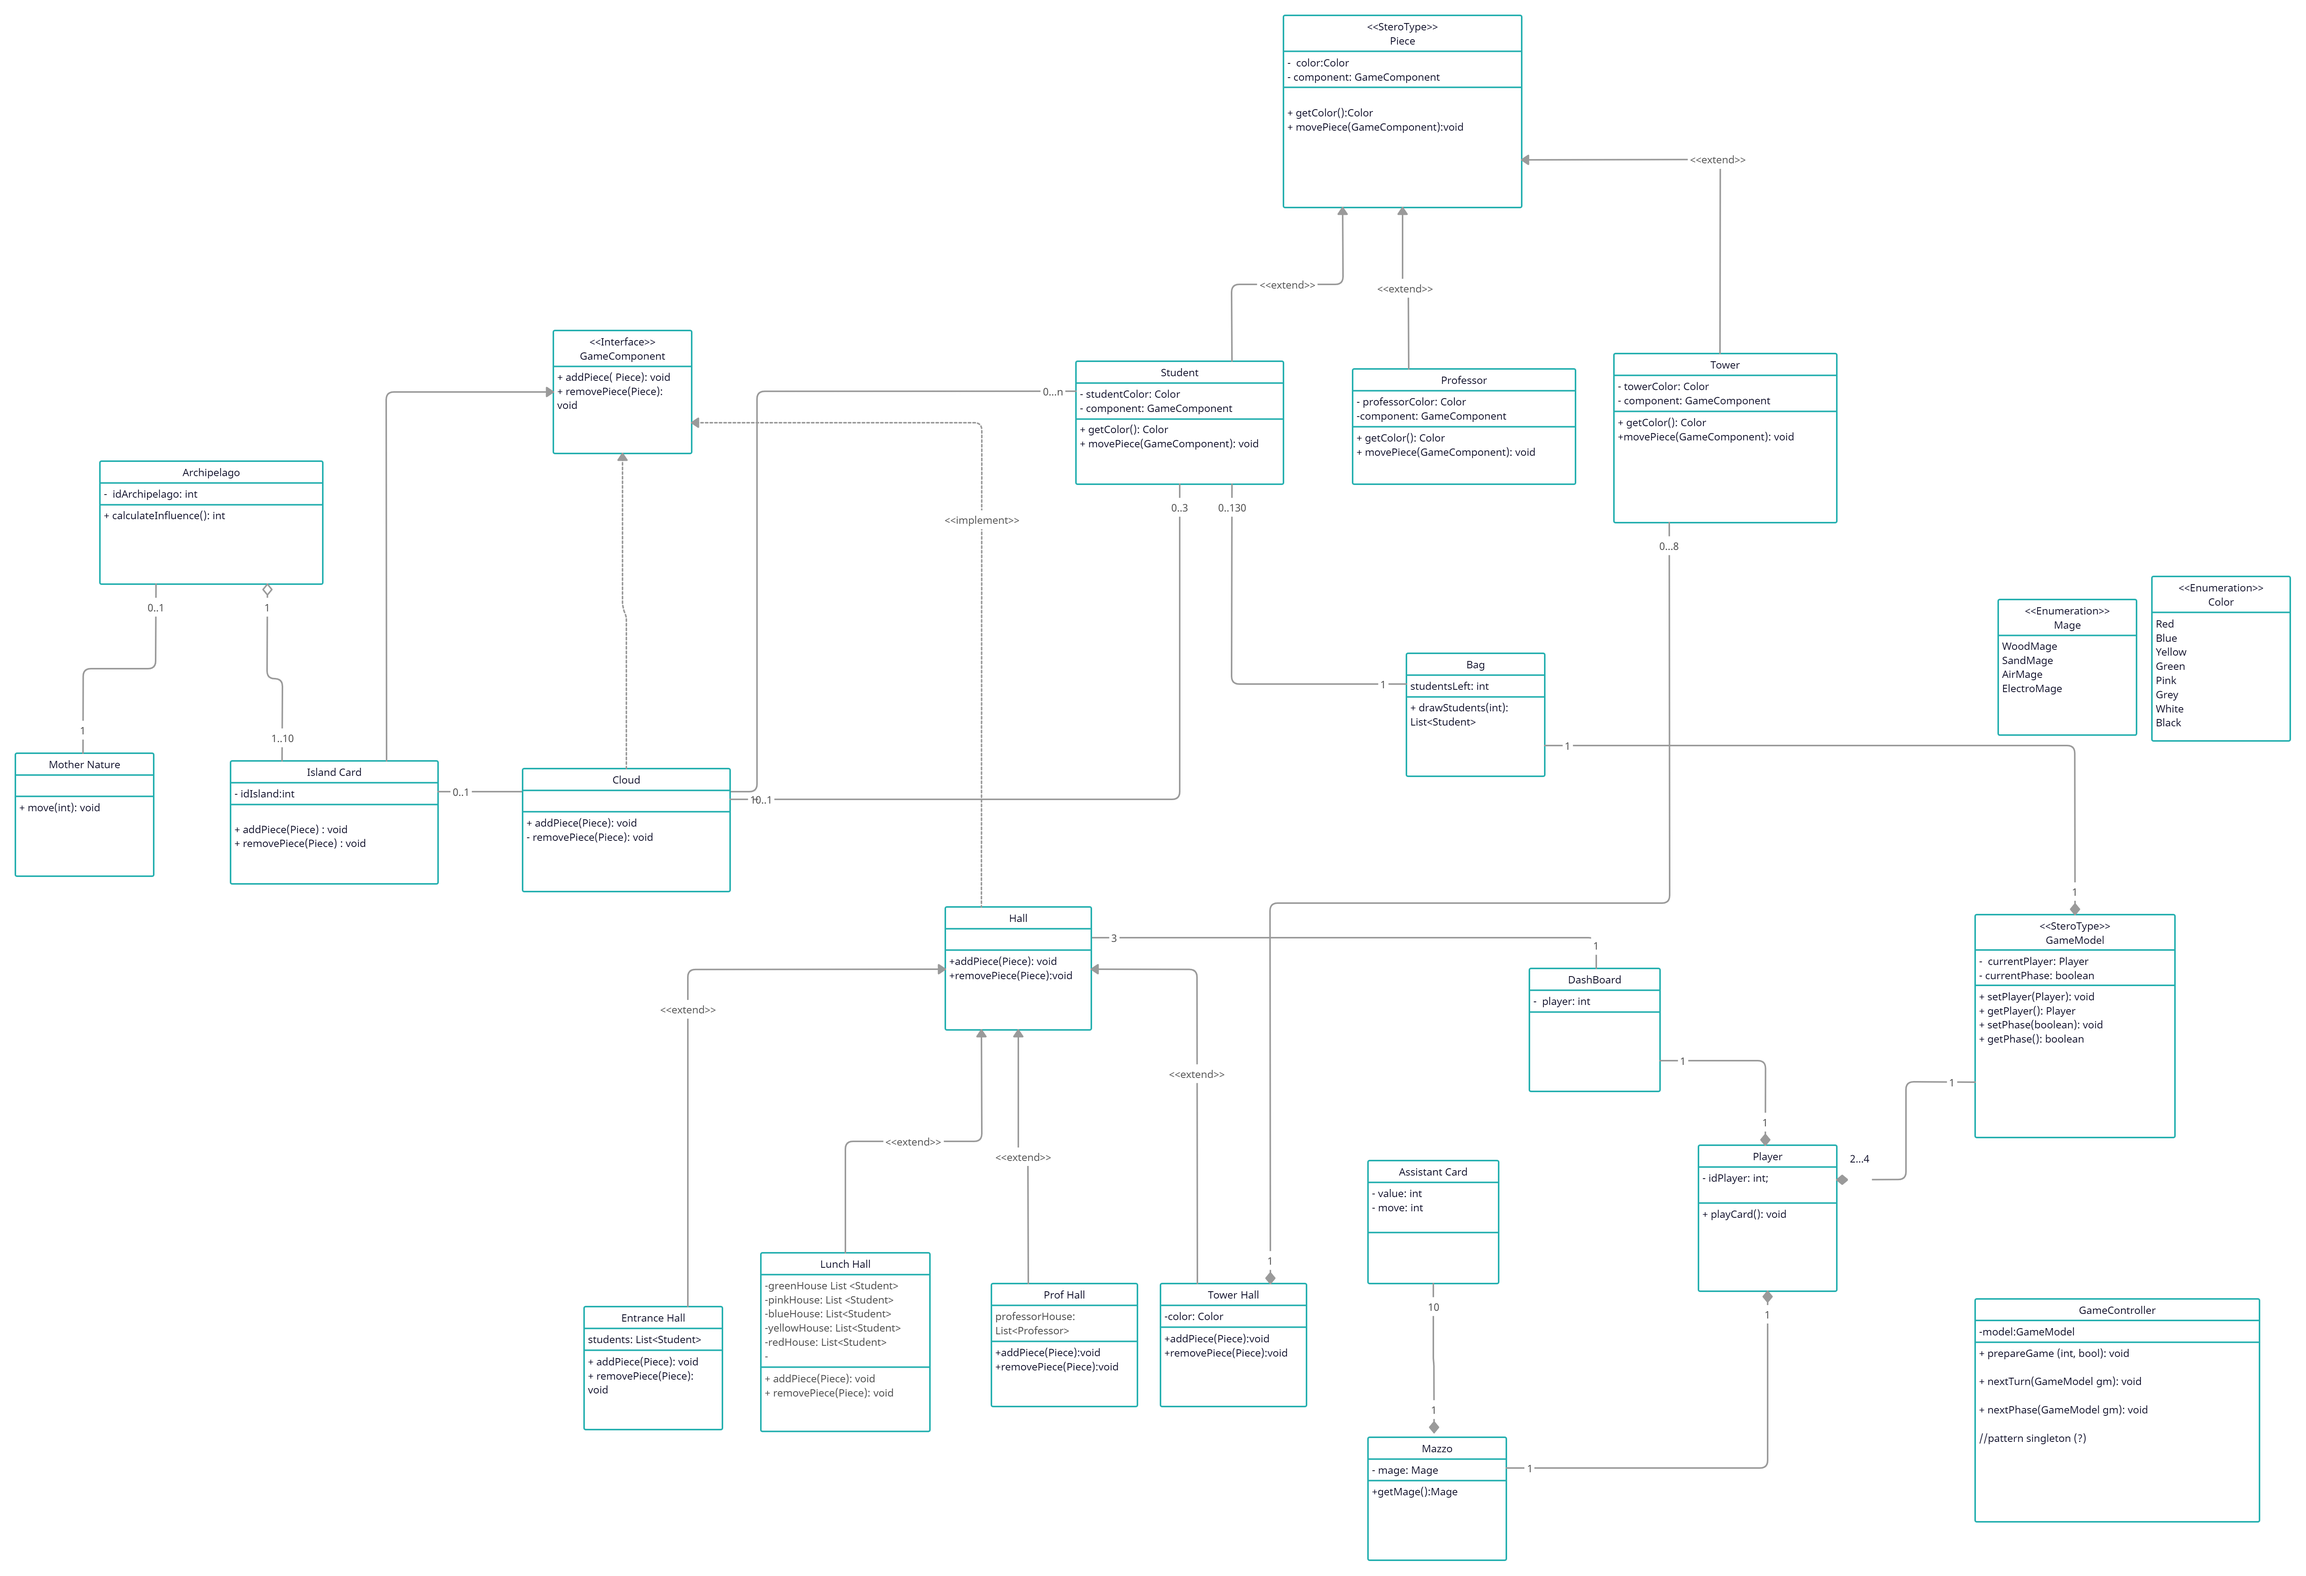
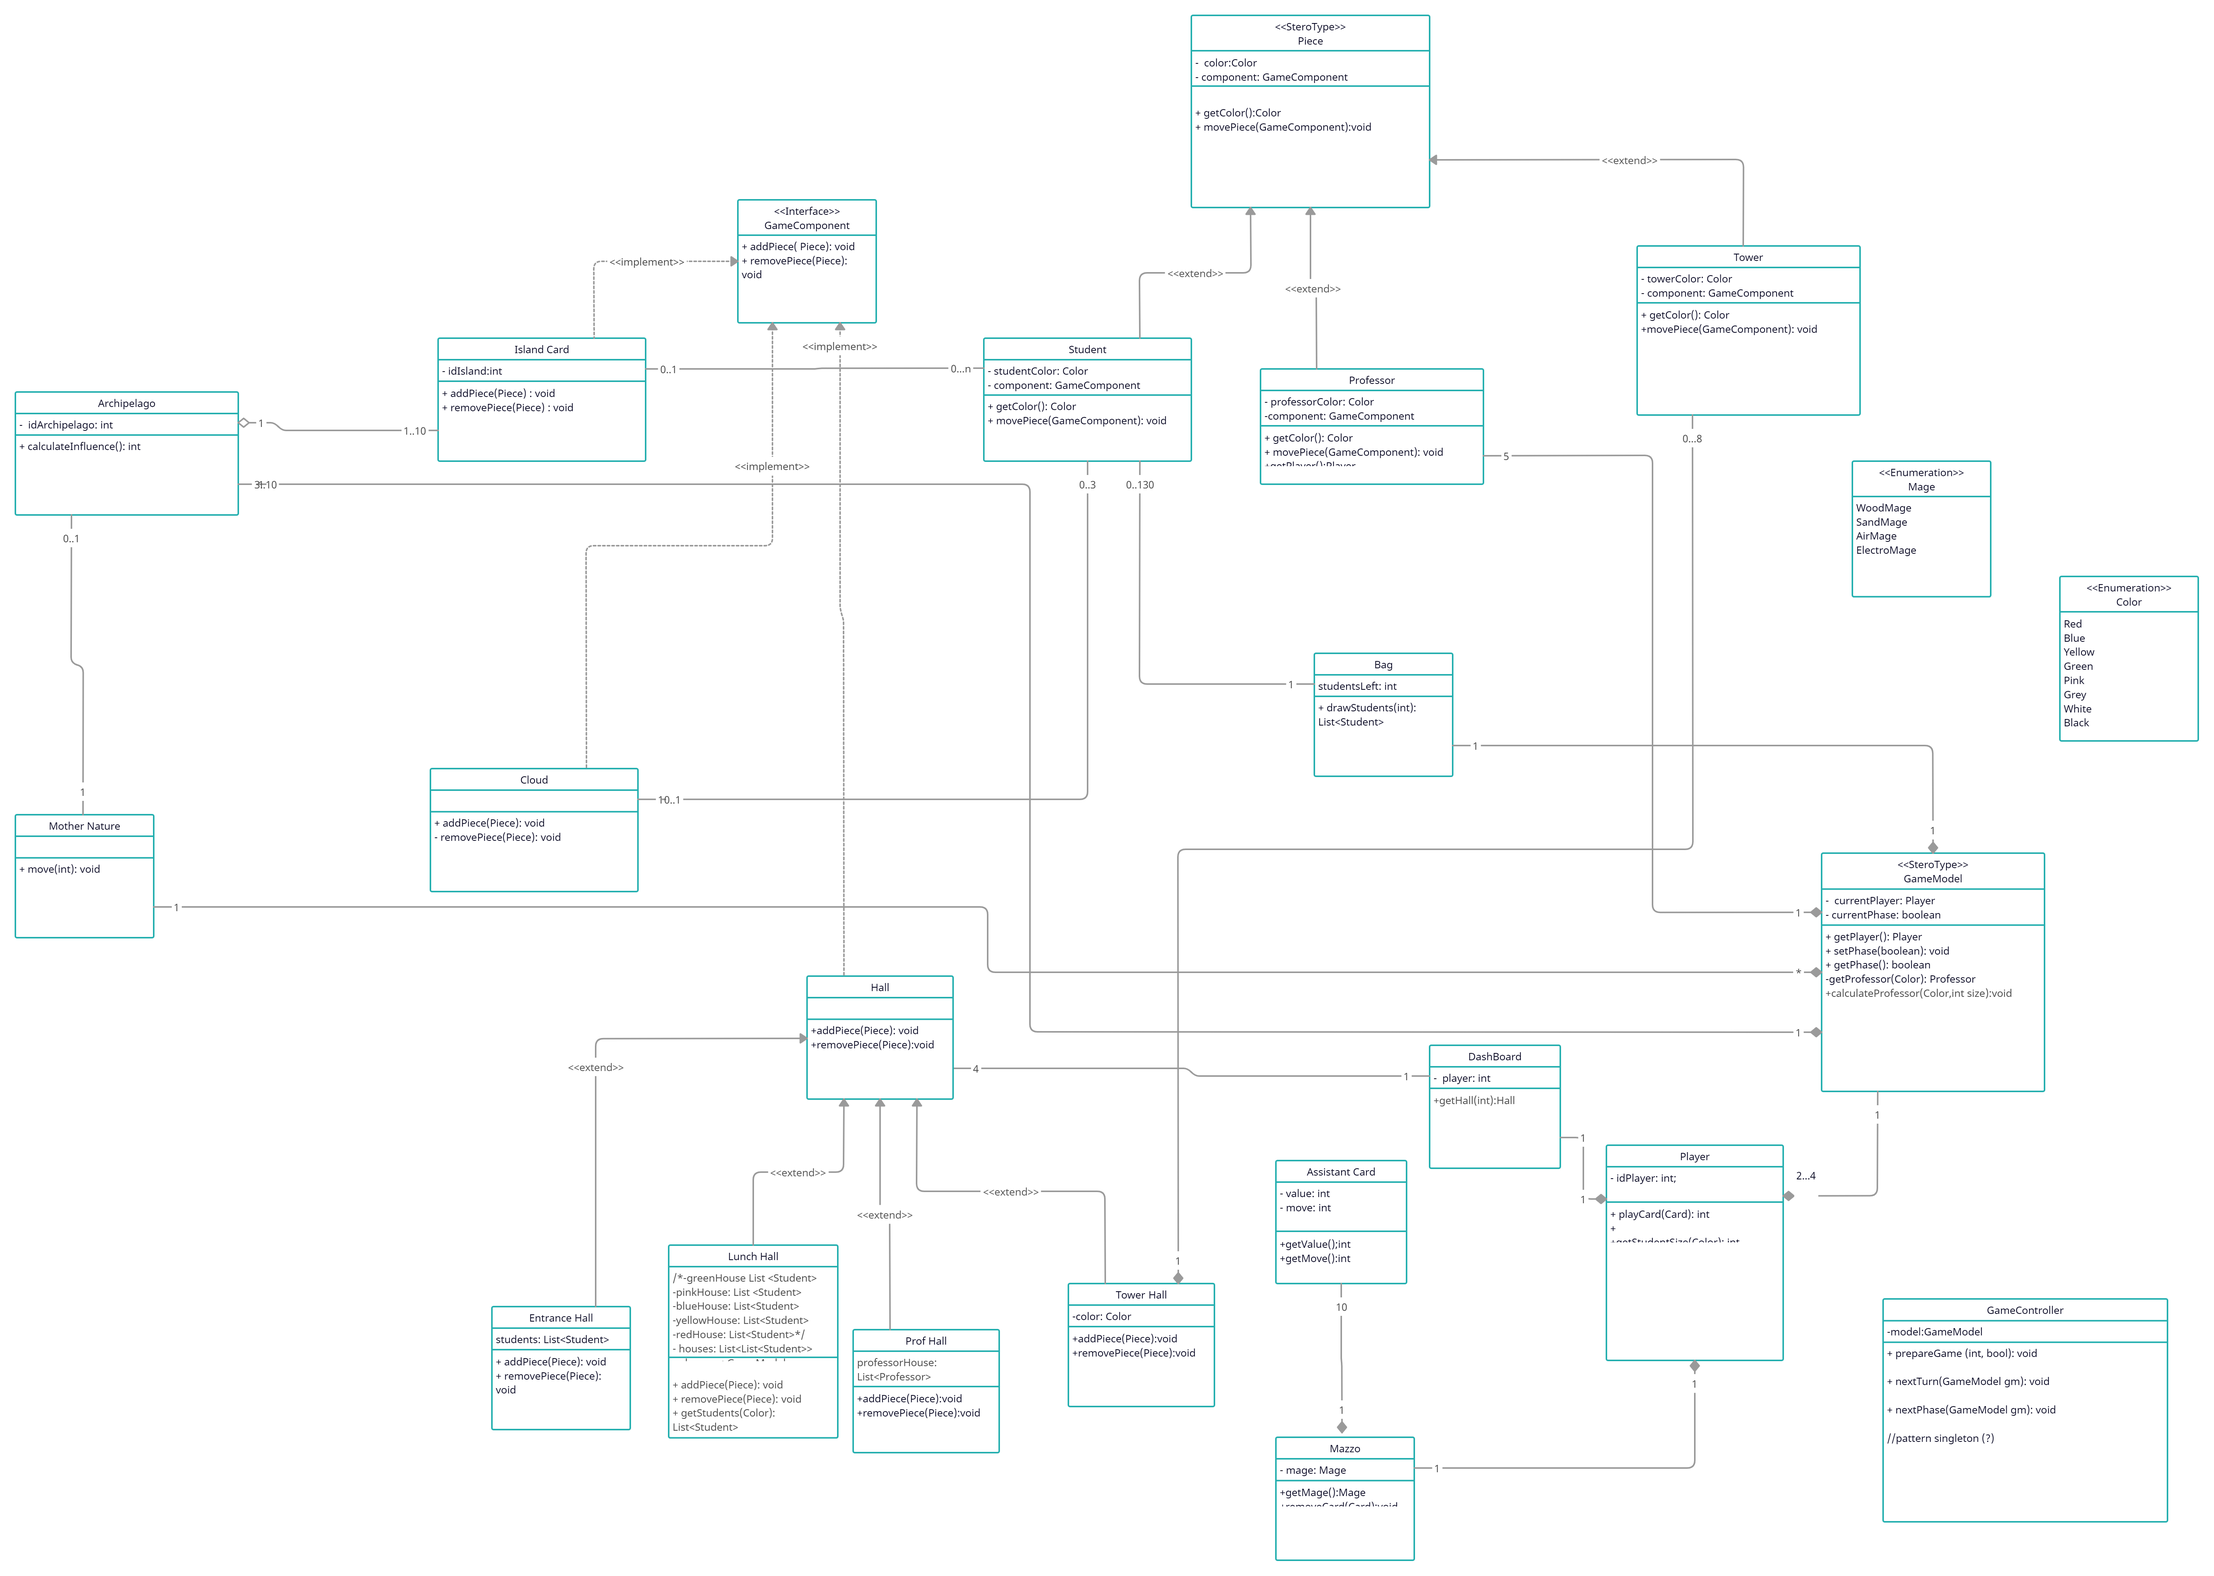
UML updated, AssistantCard

diff --git a/src/main/java/it/polimi/ingsw/AssistantCard.java b/src/main/java/it/polimi/ingsw/AssistantCard.java
@@ -1,0 +1,21 @@
+package it.polimi.ingsw;
+
+public class AssistantCard {
+
+    private final int value, move;
+
+
+    public AssistantCard(int value, int move) {
+        this.value = value;
+        this.move = move;
+    }
+
+    public int getValue() {
+        return value;
+    }
+
+    public int getMove() {
+        return move;
+    }
+
+}

diff --git a/src/test/java/it/polimi/ingsw/AppTest.java b/src/test/java/it/polimi/ingsw/AppTest.java
@@ -1,4 +1,4 @@
-package org.example;
+package it.polimi.ingsw;
 
 import static org.junit.Assert.assertTrue;
 

diff --git a/src/main/java/it/polimi/ingsw/App.java b/src/main/java/it/polimi/ingsw/App.java
@@ -1,4 +1,4 @@
-package org.example;
+package it.polimi.ingsw;
 
 /**
  * Hello world!
